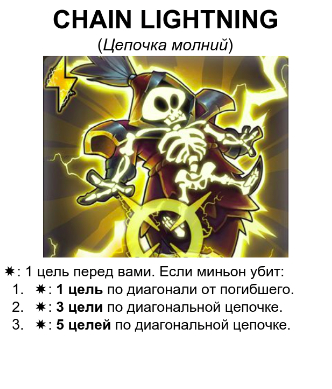
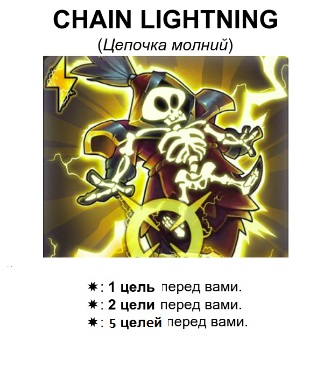
edit cards

diff --git a/public/script/cards.js b/public/script/cards.js
@@ -244,13 +244,13 @@ const cardsJSON = [
 			{// 2 Уровень
 				targetCount: 2,
 				move:[],
-				attack: [{x:0, y:1}], // Аттака в конце хода
+				attack: [{x:0, y:1},{x:0, y:2}], // Аттака в конце хода
 				rotate:[]
 			},
 			{// 3 Уровень
 				targetCount: 3,
 				move:[],
-				attack: [{x:0, y:1}], // Аттака в конце хода
+				attack: [{x:0, y:1},{x:0, y:2},{x:0, y:3}], // Аттака в конце хода
 				rotate:[]
 			}
 		]
@@ -324,15 +324,15 @@ const cardsJSON = [
 				rotate:[]
 			},
 			{// 2 Уровень
-				targetCount: 1,
+				targetCount: 3,
 				move:[],
-				attack: [{x:0,y:1}],
+				attack: [{x:0,y:1},{x:0,y:2},{x:0,y:3}],
 				rotate:[]
 			},
 			{// 3 Уровень
-				targetCount: 1,
+				targetCount: 5,
 				move:[],
-				attack: [{x:0,y:1}],
+				attack: [{x:0,y:1},{x:0,y:2},{x:0,y:3},{x:0,y:4},{x:0,y:5}],
 				rotate:[]
 			}
 		]
